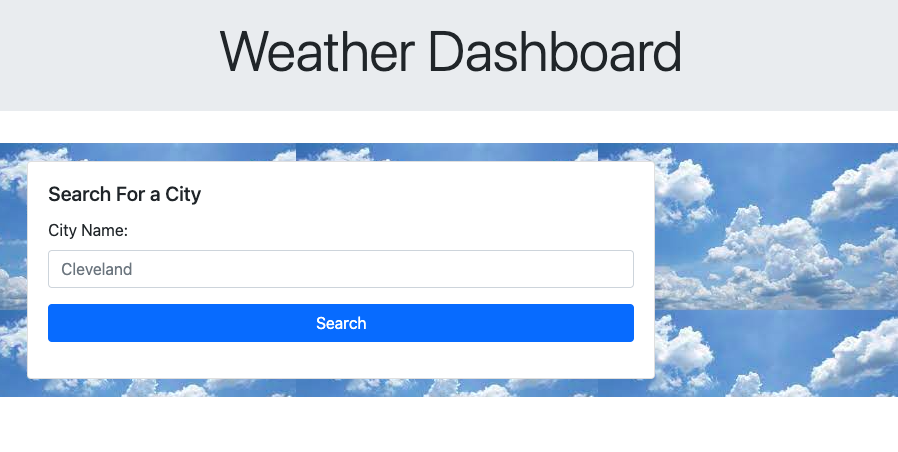
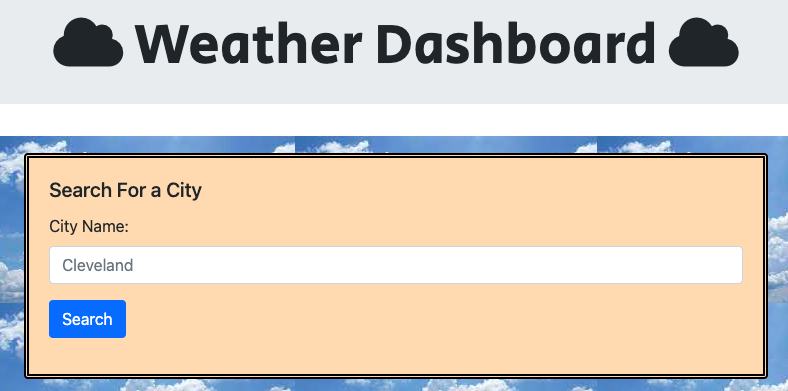
improved styling and updated screenshots in readme

diff --git a/index.html b/index.html
@@ -14,6 +14,10 @@
       rel="stylesheet"
       href="https://cdnjs.cloudflare.com/ajax/libs/font-awesome/5.15.4/css/all.min.css"
     />
+    <script src="https://kit.fontawesome.com/73525b73cb.js" crossorigin="anonymous"></script>
+    <link rel="preconnect" href="https://fonts.googleapis.com">
+    <link rel="preconnect" href="https://fonts.gstatic.com" crossorigin>
+    <link href="https://fonts.googleapis.com/css2?family=Secular+One&display=swap" rel="stylesheet">
     <link rel="stylesheet" href="./assets/css/style.css" />
     <title>Weather Dashboard</title>
   </head>
@@ -21,13 +25,13 @@
 
     <div class="jumbotron jumbotron-fluid custom-jumbo">
         <div class="container">
-          <h1 class="display-4">Weather Dashboard</h1>
+          <h1 class="display-4"><i class="fa-solid fa-cloud"></i>  Weather Dashboard  <i class="fa-solid fa-cloud"></i></h1>
         </div>
     </div>
 
     <main>
-      <div class="col-12 col-md-9 flex-column align-center">
-          <div class="card">
+      <div class="col-12 flex-column align-center justify-content-center">
+          <div class="card custom-card">
               <div class="card-body">
                 <h5 class="card-title">Search For a City</h5>
                 <form id="form">
@@ -35,15 +39,15 @@
                     <label for="city-input">City Name:</label>
                     <input type="text" class="form-control" id="city-input" placeholder="Cleveland">
                   </div>
-                  <button type="submit" class="btn btn-primary btn-block">Search</button>
+                  <button type="submit" class="btn btn-primary">Search</button>
                 </form>
                 <p id="error-message"></p>
               </div>
           </div>
  
           <!-- search history will be displayed here if any from local storage -->
-          <div class="card" id="history-card">
-            <div class="col-12 col-md-9 p-3">
+          <div class="card custom-card" id="history-card">
+            <div class="col-12 p-3">
               <h4>Recent Searches:</h4>
               <div class="history-content"></div>
             </div>

diff --git a/assets/js/script.js b/assets/js/script.js
@@ -25,9 +25,11 @@ function retrievePastSearches() {
     let storedSearches = JSON.parse(localStorage.getItem("pastSearches"));
     if(storedSearches !== null) {
         for(i=0; i<storedSearches.length; i++) {
-            var historyListEl = document.createElement("button");
-            historyListEl.textContent = storedSearches[i].city;
-            historyListEl.setAttribute("class", "history-btn")
+            var historyListEl = document.createElement("li");
+            var historyButton = document.createElement("button");
+            historyButton.textContent = storedSearches[i].city;
+            historyButton.setAttribute("class", "history-btn")
+            historyListEl.append(historyButton);
             historyContainer.append(historyListEl);
         }
 

diff --git a/search-results.html b/search-results.html
@@ -8,6 +8,7 @@
 <link rel="stylesheet" href="https://cdnjs.cloudflare.com/ajax/libs/twitter-bootstrap/4.6.0/css/bootstrap.min.css">
 <link rel="stylesheet" href="https://cdnjs.cloudflare.com/ajax/libs/font-awesome/5.15.4/css/all.min.css">
 <link rel="stylesheet" href="./assets/css/style.css">
+<link rel="stylesheet" href="./assets/css/search-results.css">
 <title>Search Results</title>
 </head>
 <body>
@@ -19,7 +20,7 @@
         </div>
 
         <!-- search results will be displayed here -->
-        <div class="col-12 col-md-9 p-3">
+        <div class="col-12 p-3">
             <h2>Showing results for: <span id="city-result"></span></h2>
             <div id="result-content"></div>
             <div id="forecast-content"></div>

diff --git a/assets/js/search-results.js b/assets/js/search-results.js
@@ -79,7 +79,7 @@ function displayData(cityQuery, currentDate,currentTemp, currentWind, currentHum
     cityResult.textContent = searchResultText;
 
     var resultContainer = document.createElement("div");
-    resultContainer.classList.add("card", "mb-3", "p-3");
+    resultContainer.classList.add("card", "mb-3", "p-3", "custom-result-card");
     var resultBody = document.createElement("div");
     resultBody.setAttribute("class", "card-body");
     resultContainer.append(resultBody);

diff --git a/assets/css/style.css b/assets/css/style.css
@@ -1,6 +1,7 @@
 .custom-jumbo {
     padding: 2%;
     text-align: center;
+    font-family: 'Secular One', sans-serif;
 }
 
 main {
@@ -12,14 +13,20 @@ li {
     list-style-type: none;
 }
 
+.custom-card {
+    background-color: #ffdab3;
+    border: 5px double black;
+}
+
 #history-card{
     margin-top: 5%;
 }
 
 .history-btn {
     border-radius: 5px 5px 5px 5px;
+    margin-top: 1%;
 }
 
 .history-btn:hover {
-    background-color:red;
+    background-color:grey;
 }

diff --git a/assets/css/search-results.css b/assets/css/search-results.css
@@ -1,0 +1,15 @@
+body {
+    background-color: #b3e0ff;
+}
+
+.card {
+    border: 2px solid black;
+}
+
+.custom-result-card {
+    border: 5px solid black;
+}
+
+.card:hover {
+    background-color: #ffdab3;
+}
